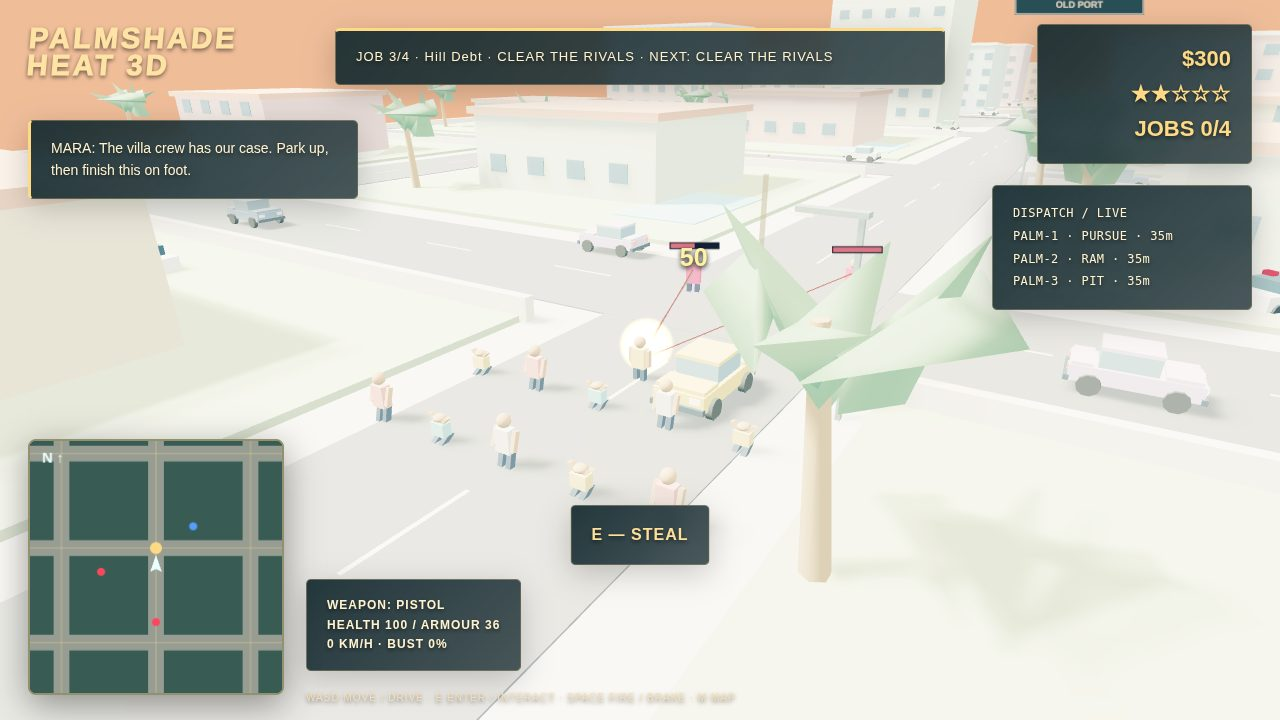
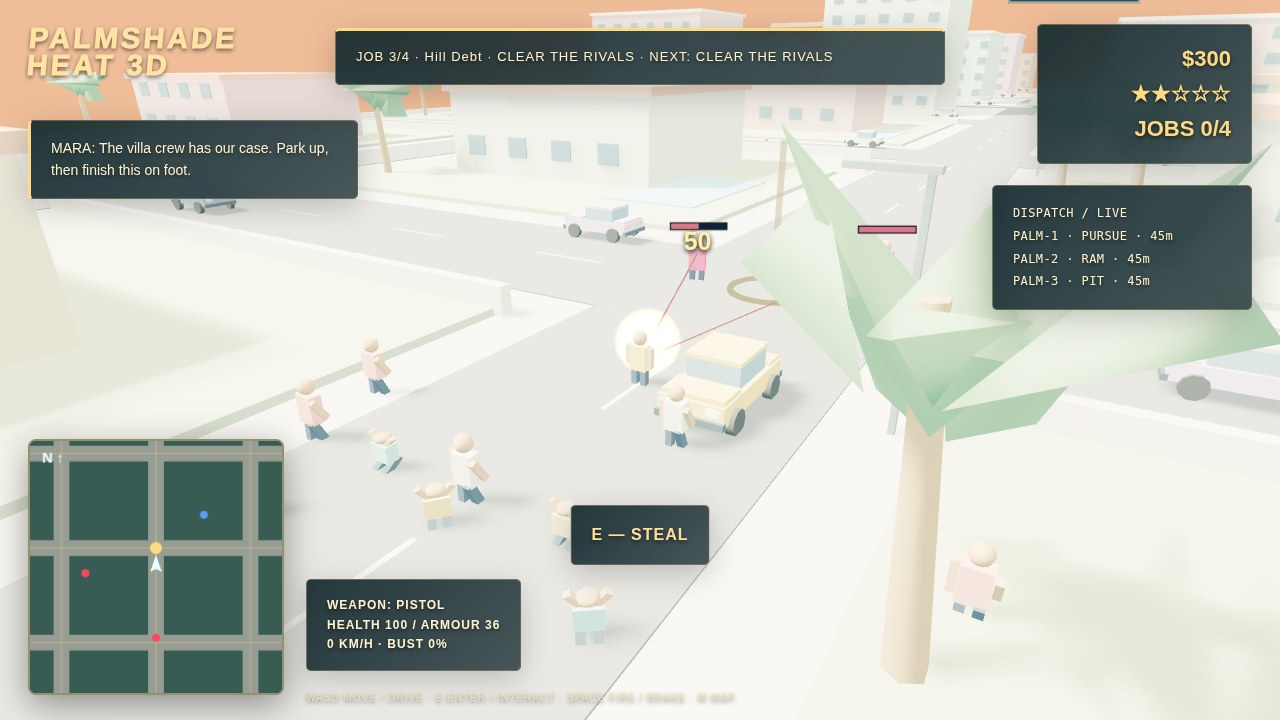
Fix cycle: gunfight staging (tight camera, 3 cowering peds mid-foreground facing camera) + police fairness (45u min spawn distance, 6s bust grace on wanted rise)

diff --git a/game/src/police.js b/game/src/police.js
@@ -1,6 +1,12 @@
 export function createPolice(T, scene, player, effects) {
-  const state = { wanted: 0, topWanted: 0, bust: 0, unseen: 0, units: [], air: null };
+  const state = { wanted: 0, topWanted: 0, bust: 0, bustGrace: 0, unseen: 0, units: [], air: null };
   const paint = color => new T.MeshStandardMaterial({ color, roughness: .65 });
+
+  function spawnPosition(position) {
+    const offset = position.clone().sub(player.position);
+    if (offset.length() < 45) position.copy(player.position).addScaledVector(offset.normalize(), 45);
+    return position;
+  }
 
   function cruiser(index) {
     const mesh = new T.Group();
@@ -28,11 +34,14 @@ export function createPolice(T, scene, player, effects) {
     const unit = { mesh, position: mesh.position, callsign: `PALM-${index + 1}`, role: 'PURSUE', speed: 0, blockPosition: null };
     const angle = index * 2.4;
     mesh.position.copy(player.position).add(new T.Vector3(Math.sin(angle) * 35, 0, Math.cos(angle) * 35));
+    spawnPosition(mesh.position);
     return unit;
   }
 
   function setWanted(value) {
+    const previous = state.wanted;
     state.wanted = Math.max(0, Math.min(5, Math.round(value)));
+    if (!previous && state.wanted) state.bustGrace = 6;
     state.topWanted = Math.max(state.topWanted, state.wanted);
     state.unseen = 0;
   }
@@ -73,7 +82,7 @@ export function createPolice(T, scene, player, effects) {
       let destination = player.position.clone();
       if (unit.role === 'ROADBLOCK') {
         if (!unit.blockPosition || unit.blockPosition.distanceTo(player.position) > 100) {
-          unit.blockPosition = player.position.clone().addScaledVector(forward, 42).addScaledVector(side, (index - 4) * 3);
+          unit.blockPosition = spawnPosition(player.position.clone().addScaledVector(forward, 42).addScaledVector(side, (index - 4) * 3));
         }
         destination.copy(unit.blockPosition);
       } else unit.blockPosition = null;
@@ -121,7 +130,8 @@ export function createPolice(T, scene, player, effects) {
     }
 
     const speed = Math.abs(car?.speed ?? player.speed ?? 0);
-    state.bust = Math.max(0, Math.min(100, state.bust + (close && speed < 4 ? 23 : -15) * dt));
+    state.bust = Math.max(0, Math.min(100, state.bust + (close && speed < 4 ? (state.bustGrace > 0 ? 0 : 23) : -15) * dt));
+    state.bustGrace = Math.max(0, state.bustGrace - dt);
     if (state.wanted && seen) state.unseen = 0;
     else state.unseen += dt;
     if (state.wanted && state.unseen > 18) setWanted(state.wanted - 1);

diff --git a/game/src/main.js b/game/src/main.js
@@ -62,7 +62,12 @@ export async function boot(){
   }else if(shot==='complete'){missions.start(0);missions.complete();moveTo(missions.shop.clone().add(new T.Vector3(0,0,5)));}
   else if(shot==='map'){minimap.setOpen(true);moveTo(missions.mara);}
   if(shot){peds.slice(0,10).forEach((p,i)=>{p.mesh.position.copy(player.position).add(new T.Vector3((i%5-2)*3,0,3+Math.floor(i/5)*5));p.state=i%2?'flee':'cower';p.fear=9999;});staged=shot==='hero'||shot==='gunfight';}
-  function cameraOffset(){if(shot==='hero')return new T.Vector3(8,42,-46);if(shot==='gunfight')return new T.Vector3(14,12,22);return player.currentCar?new T.Vector3(-Math.sin(yaw)*30,24,-Math.cos(yaw)*30):new T.Vector3(0,25,28);}
+  function cameraOffset(){if(shot==='hero')return new T.Vector3(8,42,-46);if(shot==='gunfight')return new T.Vector3(11,10,18);return player.currentCar?new T.Vector3(-Math.sin(yaw)*30,24,-Math.cos(yaw)*30):new T.Vector3(0,25,28);}
+  if(shot==='gunfight'){
+    const view=cameraOffset();
+    [[0,0,9],[2,5,10],[4,-4,11]].forEach(([i,x,z])=>{const p=peds[i];p.mesh.position.copy(player.position).add(new T.Vector3(x,0,z));p.state='cower';p.fear=9999;p.mesh.rotation.y=p.heading=Math.atan2(view.x-x,view.z-z);});
+    [[1,-7,5],[9,11,6]].forEach(([i,x,z])=>{peds[i].mesh.position.copy(player.position).add(new T.Vector3(x,0,z));});
+  }
   function focusCamera(immediate=false){const follow=player.position.clone().add(cameraOffset());if(immediate)camera.position.copy(follow);else camera.position.lerp(follow,.16);camera.lookAt(player.position.clone().add(new T.Vector3(0,shot==='hero'?7:1,0)));}
   focusCamera(true);
   function blocked(next,radius){return (world.colliders??[]).some(c=>{const b=c.box??c;return next.x>(b.min?.x??b.minX)-radius&&next.x<(b.max?.x??b.maxX)+radius&&next.z>(b.min?.z??b.minZ)-radius&&next.z<(b.max?.z??b.maxZ)+radius;});}
